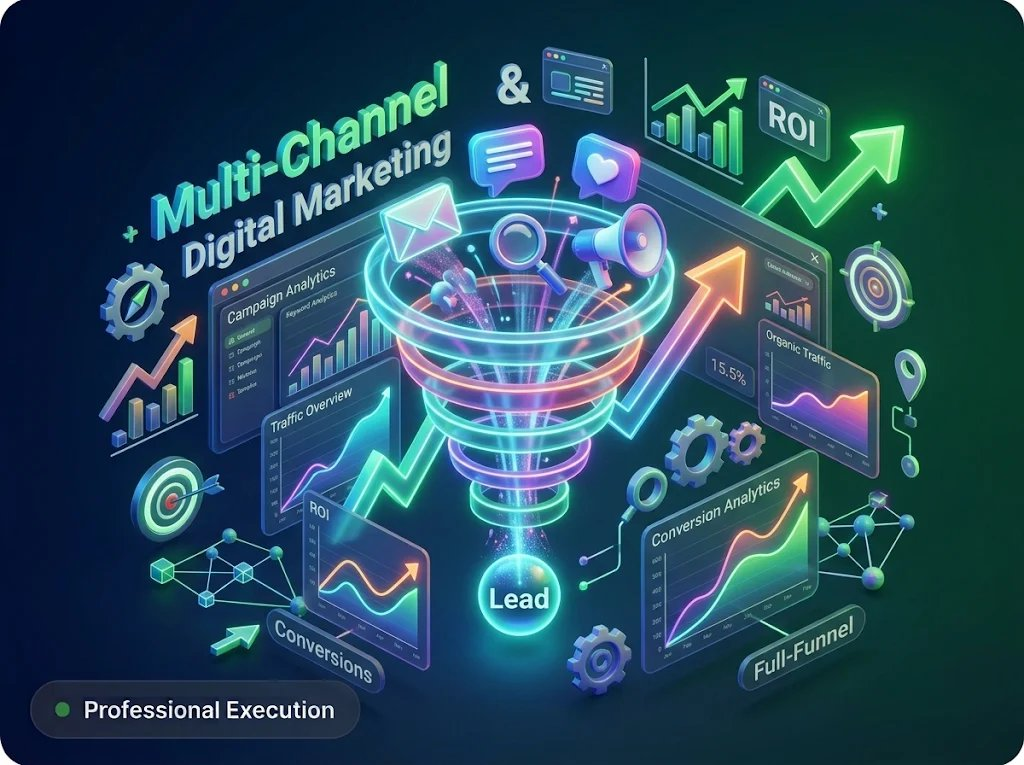
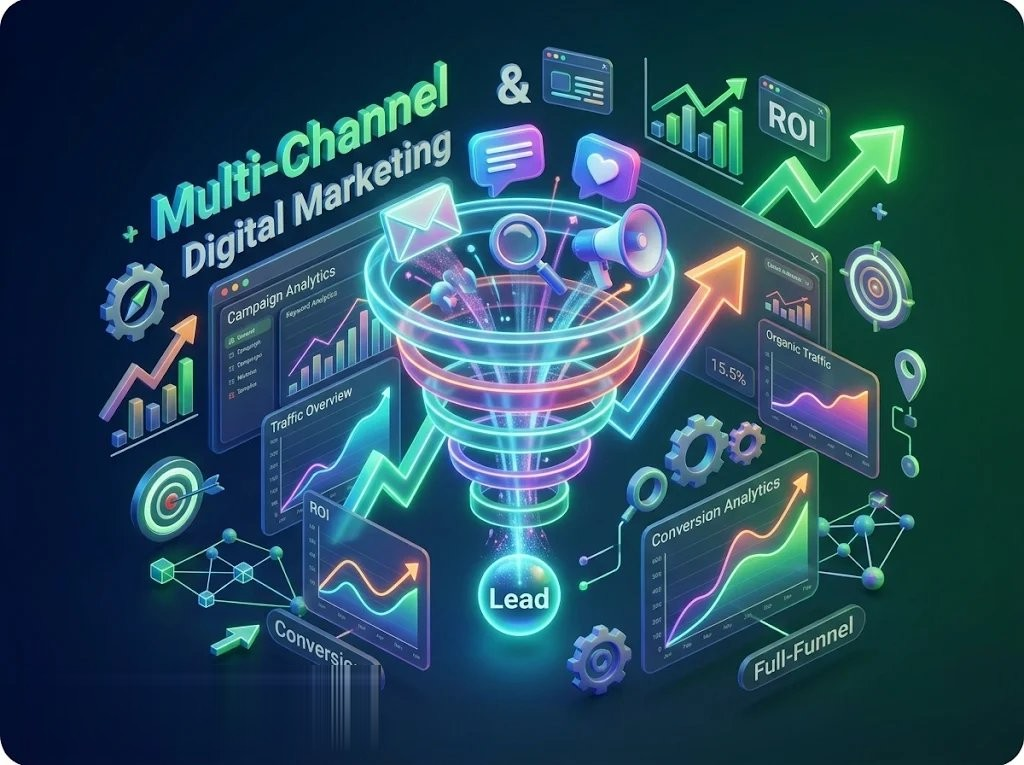
Fix text cropping with unconstrained aspect ratios, remove Professional Execution badge from all 12 graphics, and add generous canvas margins

Changed region(s): [[0.0312, 0.8719, 0.375, 0.9922]]

diff --git a/services/company-profile-design.html b/services/company-profile-design.html
@@ -18,8 +18,8 @@
   <link rel="preconnect" href="https://fonts.gstatic.com" crossorigin>
   <link href="https://fonts.googleapis.com/css2?family=Plus+Jakarta+Sans:wght@400;500;600;700;800;900&display=swap" rel="stylesheet">
 
-  <link rel="stylesheet" href="../css/style.css?v=2.8">
-  <link rel="stylesheet" href="../css/responsive.css?v=2.8">
+  <link rel="stylesheet" href="../css/style.css?v=2.9">
+  <link rel="stylesheet" href="../css/responsive.css?v=2.9">
 </head>
 <body>
 
@@ -262,7 +262,7 @@
         </div>
         <div class="service-hero-media">
           <div class="service-hero-img-card">
-            <img src="../images/services/hero/hero-company-profile.jpg?v=2.8" alt="Corporate Profile Booklet & Business Presentation Design" class="service-hero-img" loading="eager">
+            <img src="../images/services/hero/hero-company-profile.jpg?v=2.9" alt="Corporate Profile Booklet & Business Presentation Design" class="service-hero-img" loading="eager">
             <div class="service-hero-img-badge">
               <span class="pulse-dot"></span> Professional Execution
             </div>
@@ -571,6 +571,6 @@
     </div>
   </footer>
 
-  <script src="../js/main.js?v=2.8"></script>
+  <script src="../js/main.js?v=2.9"></script>
 </body>
 </html>

diff --git a/services/video-editing.html b/services/video-editing.html
@@ -18,8 +18,8 @@
   <link rel="preconnect" href="https://fonts.gstatic.com" crossorigin>
   <link href="https://fonts.googleapis.com/css2?family=Plus+Jakarta+Sans:wght@400;500;600;700;800;900&display=swap" rel="stylesheet">
 
-  <link rel="stylesheet" href="../css/style.css?v=2.8">
-  <link rel="stylesheet" href="../css/responsive.css?v=2.8">
+  <link rel="stylesheet" href="../css/style.css?v=2.9">
+  <link rel="stylesheet" href="../css/responsive.css?v=2.9">
 </head>
 <body>
 
@@ -262,7 +262,7 @@
         </div>
         <div class="service-hero-media">
           <div class="service-hero-img-card">
-            <img src="../images/services/hero/hero-video-editing.jpg?v=2.8" alt="Professional Video Editing & Motion Graphics Production" class="service-hero-img" loading="eager">
+            <img src="../images/services/hero/hero-video-editing.jpg?v=2.9" alt="Professional Video Editing & Motion Graphics Production" class="service-hero-img" loading="eager">
             <div class="service-hero-img-badge">
               <span class="pulse-dot"></span> Professional Execution
             </div>
@@ -588,6 +588,6 @@
     </div>
   </footer>
 
-  <script src="../js/main.js?v=2.8"></script>
+  <script src="../js/main.js?v=2.9"></script>
 </body>
 </html>

diff --git a/services/facebook-boosting.html b/services/facebook-boosting.html
@@ -18,8 +18,8 @@
   <link rel="preconnect" href="https://fonts.gstatic.com" crossorigin>
   <link href="https://fonts.googleapis.com/css2?family=Plus+Jakarta+Sans:wght@400;500;600;700;800;900&display=swap" rel="stylesheet">
 
-  <link rel="stylesheet" href="../css/style.css?v=2.8">
-  <link rel="stylesheet" href="../css/responsive.css?v=2.8">
+  <link rel="stylesheet" href="../css/style.css?v=2.9">
+  <link rel="stylesheet" href="../css/responsive.css?v=2.9">
 </head>
 <body>
 
@@ -262,7 +262,7 @@
         </div>
         <div class="service-hero-media">
           <div class="service-hero-img-card">
-            <img src="../images/services/hero/hero-facebook-boosting.jpg?v=2.8" alt="Facebook Boosting & Social Media Growth Campaigns" class="service-hero-img" loading="eager">
+            <img src="../images/services/hero/hero-facebook-boosting.jpg?v=2.9" alt="Facebook Boosting & Social Media Growth Campaigns" class="service-hero-img" loading="eager">
             <div class="service-hero-img-badge">
               <span class="pulse-dot"></span> Professional Execution
             </div>
@@ -572,6 +572,6 @@
     </div>
   </footer>
 
-  <script src="../js/main.js?v=2.8"></script>
+  <script src="../js/main.js?v=2.9"></script>
 </body>
 </html>

diff --git a/services/content-marketing.html b/services/content-marketing.html
@@ -18,8 +18,8 @@
   <link rel="preconnect" href="https://fonts.gstatic.com" crossorigin>
   <link href="https://fonts.googleapis.com/css2?family=Plus+Jakarta+Sans:wght@400;500;600;700;800;900&display=swap" rel="stylesheet">
 
-  <link rel="stylesheet" href="../css/style.css?v=2.8">
-  <link rel="stylesheet" href="../css/responsive.css?v=2.8">
+  <link rel="stylesheet" href="../css/style.css?v=2.9">
+  <link rel="stylesheet" href="../css/responsive.css?v=2.9">
 </head>
 <body>
 
@@ -262,7 +262,7 @@
         </div>
         <div class="service-hero-media">
           <div class="service-hero-img-card">
-            <img src="../images/services/hero/hero-content-marketing.jpg?v=2.8" alt="Content Marketing & Strategic Brand Storytelling" class="service-hero-img" loading="eager">
+            <img src="../images/services/hero/hero-content-marketing.jpg?v=2.9" alt="Content Marketing & Strategic Brand Storytelling" class="service-hero-img" loading="eager">
             <div class="service-hero-img-badge">
               <span class="pulse-dot"></span> Professional Execution
             </div>
@@ -572,6 +572,6 @@
     </div>
   </footer>
 
-  <script src="../js/main.js?v=2.8"></script>
+  <script src="../js/main.js?v=2.9"></script>
 </body>
 </html>

diff --git a/services/digital-marketing.html b/services/digital-marketing.html
@@ -18,8 +18,8 @@
   <link rel="preconnect" href="https://fonts.gstatic.com" crossorigin>
   <link href="https://fonts.googleapis.com/css2?family=Plus+Jakarta+Sans:wght@400;500;600;700;800;900&display=swap" rel="stylesheet">
 
-  <link rel="stylesheet" href="../css/style.css?v=2.8">
-  <link rel="stylesheet" href="../css/responsive.css?v=2.8">
+  <link rel="stylesheet" href="../css/style.css?v=2.9">
+  <link rel="stylesheet" href="../css/responsive.css?v=2.9">
 </head>
 <body>
 
@@ -262,7 +262,7 @@
         </div>
         <div class="service-hero-media">
           <div class="service-hero-img-card">
-            <img src="../images/services/hero/hero-digital-marketing.jpg?v=2.8" alt="Digital Marketing Strategy & Business Growth" class="service-hero-img" loading="eager">
+            <img src="../images/services/hero/hero-digital-marketing.jpg?v=2.9" alt="Digital Marketing Strategy & Business Growth" class="service-hero-img" loading="eager">
             <div class="service-hero-img-badge">
               <span class="pulse-dot"></span> Professional Execution
             </div>
@@ -580,6 +580,6 @@
     </div>
   </footer>
 
-  <script src="../js/main.js?v=2.8"></script>
+  <script src="../js/main.js?v=2.9"></script>
 </body>
 </html>

diff --git a/services/linkedin-ads.html b/services/linkedin-ads.html
@@ -18,8 +18,8 @@
   <link rel="preconnect" href="https://fonts.gstatic.com" crossorigin>
   <link href="https://fonts.googleapis.com/css2?family=Plus+Jakarta+Sans:wght@400;500;600;700;800;900&display=swap" rel="stylesheet">
 
-  <link rel="stylesheet" href="../css/style.css?v=2.8">
-  <link rel="stylesheet" href="../css/responsive.css?v=2.8">
+  <link rel="stylesheet" href="../css/style.css?v=2.9">
+  <link rel="stylesheet" href="../css/responsive.css?v=2.9">
 </head>
 <body>
 
@@ -262,7 +262,7 @@
         </div>
         <div class="service-hero-media">
           <div class="service-hero-img-card">
-            <img src="../images/services/hero/hero-linkedin-ads.jpg?v=2.8" alt="LinkedIn Ads Management Strategy & B2B Campaigns" class="service-hero-img" loading="eager">
+            <img src="../images/services/hero/hero-linkedin-ads.jpg?v=2.9" alt="LinkedIn Ads Management Strategy & B2B Campaigns" class="service-hero-img" loading="eager">
             <div class="service-hero-img-badge">
               <span class="pulse-dot"></span> Professional Execution
             </div>
@@ -567,6 +567,6 @@
     </div>
   </footer>
 
-  <script src="../js/main.js?v=2.8"></script>
+  <script src="../js/main.js?v=2.9"></script>
 </body>
 </html>

diff --git a/services/banner-poster-design.html b/services/banner-poster-design.html
@@ -18,8 +18,8 @@
   <link rel="preconnect" href="https://fonts.gstatic.com" crossorigin>
   <link href="https://fonts.googleapis.com/css2?family=Plus+Jakarta+Sans:wght@400;500;600;700;800;900&display=swap" rel="stylesheet">
 
-  <link rel="stylesheet" href="../css/style.css?v=2.8">
-  <link rel="stylesheet" href="../css/responsive.css?v=2.8">
+  <link rel="stylesheet" href="../css/style.css?v=2.9">
+  <link rel="stylesheet" href="../css/responsive.css?v=2.9">
 </head>
 <body>
 
@@ -262,7 +262,7 @@
         </div>
         <div class="service-hero-media">
           <div class="service-hero-img-card">
-            <img src="../images/services/hero/hero-banner-poster.jpg?v=2.8" alt="Advertising Banner & Promotional Poster Design" class="service-hero-img" loading="eager">
+            <img src="../images/services/hero/hero-banner-poster.jpg?v=2.9" alt="Advertising Banner & Promotional Poster Design" class="service-hero-img" loading="eager">
             <div class="service-hero-img-badge">
               <span class="pulse-dot"></span> Professional Execution
             </div>
@@ -572,6 +572,6 @@
     </div>
   </footer>
 
-  <script src="../js/main.js?v=2.8"></script>
+  <script src="../js/main.js?v=2.9"></script>
 </body>
 </html>

diff --git a/services/web-design-development.html b/services/web-design-development.html
@@ -18,8 +18,8 @@
   <link rel="preconnect" href="https://fonts.gstatic.com" crossorigin>
   <link href="https://fonts.googleapis.com/css2?family=Plus+Jakarta+Sans:wght@400;500;600;700;800;900&display=swap" rel="stylesheet">
 
-  <link rel="stylesheet" href="../css/style.css?v=2.8">
-  <link rel="stylesheet" href="../css/responsive.css?v=2.8">
+  <link rel="stylesheet" href="../css/style.css?v=2.9">
+  <link rel="stylesheet" href="../css/responsive.css?v=2.9">
 </head>
 <body>
 
@@ -262,7 +262,7 @@
         </div>
         <div class="service-hero-media">
           <div class="service-hero-img-card">
-            <img src="../images/services/hero/hero-web-development.jpg?v=2.8" alt="Modern Responsive Web Design & Development" class="service-hero-img" loading="eager">
+            <img src="../images/services/hero/hero-web-development.jpg?v=2.9" alt="Modern Responsive Web Design & Development" class="service-hero-img" loading="eager">
             <div class="service-hero-img-badge">
               <span class="pulse-dot"></span> Professional Execution
             </div>
@@ -580,6 +580,6 @@
     </div>
   </footer>
 
-  <script src="../js/main.js?v=2.8"></script>
+  <script src="../js/main.js?v=2.9"></script>
 </body>
 </html>

diff --git a/services/seo.html b/services/seo.html
@@ -18,8 +18,8 @@
   <link rel="preconnect" href="https://fonts.gstatic.com" crossorigin>
   <link href="https://fonts.googleapis.com/css2?family=Plus+Jakarta+Sans:wght@400;500;600;700;800;900&display=swap" rel="stylesheet">
 
-  <link rel="stylesheet" href="../css/style.css?v=2.8">
-  <link rel="stylesheet" href="../css/responsive.css?v=2.8">
+  <link rel="stylesheet" href="../css/style.css?v=2.9">
+  <link rel="stylesheet" href="../css/responsive.css?v=2.9">
 </head>
 <body>
 
@@ -262,7 +262,7 @@
         </div>
         <div class="service-hero-media">
           <div class="service-hero-img-card">
-            <img src="../images/services/hero/hero-seo.jpg?v=2.8" alt="Search Engine Optimization (SEO) & Organic Visibility" class="service-hero-img" loading="eager">
+            <img src="../images/services/hero/hero-seo.jpg?v=2.9" alt="Search Engine Optimization (SEO) & Organic Visibility" class="service-hero-img" loading="eager">
             <div class="service-hero-img-badge">
               <span class="pulse-dot"></span> Professional Execution
             </div>
@@ -584,6 +584,6 @@
     </div>
   </footer>
 
-  <script src="../js/main.js?v=2.8"></script>
+  <script src="../js/main.js?v=2.9"></script>
 </body>
 </html>

diff --git a/services/branding-design.html b/services/branding-design.html
@@ -18,8 +18,8 @@
   <link rel="preconnect" href="https://fonts.gstatic.com" crossorigin>
   <link href="https://fonts.googleapis.com/css2?family=Plus+Jakarta+Sans:wght@400;500;600;700;800;900&display=swap" rel="stylesheet">
 
-  <link rel="stylesheet" href="../css/style.css?v=2.8">
-  <link rel="stylesheet" href="../css/responsive.css?v=2.8">
+  <link rel="stylesheet" href="../css/style.css?v=2.9">
+  <link rel="stylesheet" href="../css/responsive.css?v=2.9">
 </head>
 <body>
 
@@ -262,7 +262,7 @@
         </div>
         <div class="service-hero-media">
           <div class="service-hero-img-card">
-            <img src="../images/services/hero/hero-branding-design.jpg?v=2.8" alt="Brand Identity Systems & Visual Design" class="service-hero-img" loading="eager">
+            <img src="../images/services/hero/hero-branding-design.jpg?v=2.9" alt="Brand Identity Systems & Visual Design" class="service-hero-img" loading="eager">
             <div class="service-hero-img-badge">
               <span class="pulse-dot"></span> Professional Execution
             </div>
@@ -575,6 +575,6 @@
     </div>
   </footer>
 
-  <script src="../js/main.js?v=2.8"></script>
+  <script src="../js/main.js?v=2.9"></script>
 </body>
 </html>

diff --git a/index.html b/index.html
@@ -24,8 +24,8 @@
   <link href="https://fonts.googleapis.com/css2?family=Caveat:wght@600;700&family=Plus+Jakarta+Sans:wght@400;500;600;700;800;900&display=swap" rel="stylesheet">
 
   <!-- Core Stylesheets -->
-  <link rel="stylesheet" href="css/style.css?v=2.8">
-  <link rel="stylesheet" href="css/responsive.css?v=2.8">
+  <link rel="stylesheet" href="css/style.css?v=2.9">
+  <link rel="stylesheet" href="css/responsive.css?v=2.9">
 </head>
 <body>
 
@@ -1606,7 +1606,7 @@
           <a href="#contact" class="btn btn-primary" style="margin-top:18px; display:inline-flex;">Request a Custom Package</a>
         </div>
         <div class="custom-pkg-media">
-          <img src="images/services/hero/hero-custom-solutions.jpg?v=2.8" alt="Custom Solutions &amp; Packages - Flexible Tiers for Business Growth" class="custom-pkg-img" loading="lazy">
+          <img src="images/services/hero/hero-custom-solutions.jpg?v=2.9" alt="Custom Solutions &amp; Packages - Flexible Tiers for Business Growth" class="custom-pkg-img" loading="lazy">
         </div>
       </div>
 
@@ -2447,6 +2447,6 @@
   </div>
 
   <!-- JavaScript -->
-  <script src="js/main.js?v=2.8"></script>
+  <script src="js/main.js?v=2.9"></script>
 </body>
 </html>

diff --git a/services/google-ads.html b/services/google-ads.html
@@ -18,8 +18,8 @@
   <link rel="preconnect" href="https://fonts.gstatic.com" crossorigin>
   <link href="https://fonts.googleapis.com/css2?family=Plus+Jakarta+Sans:wght@400;500;600;700;800;900&display=swap" rel="stylesheet">
 
-  <link rel="stylesheet" href="../css/style.css?v=2.8">
-  <link rel="stylesheet" href="../css/responsive.css?v=2.8">
+  <link rel="stylesheet" href="../css/style.css?v=2.9">
+  <link rel="stylesheet" href="../css/responsive.css?v=2.9">
 </head>
 <body>
 
@@ -262,7 +262,7 @@
         </div>
         <div class="service-hero-media">
           <div class="service-hero-img-card">
-            <img src="../images/services/hero/hero-google-ads.jpg?v=2.8" alt="Google Ads Search & Display Advertising" class="service-hero-img" loading="eager">
+            <img src="../images/services/hero/hero-google-ads.jpg?v=2.9" alt="Google Ads Search & Display Advertising" class="service-hero-img" loading="eager">
             <div class="service-hero-img-badge">
               <span class="pulse-dot"></span> Professional Execution
             </div>
@@ -580,6 +580,6 @@
     </div>
   </footer>
 
-  <script src="../js/main.js?v=2.8"></script>
+  <script src="../js/main.js?v=2.9"></script>
 </body>
 </html>
